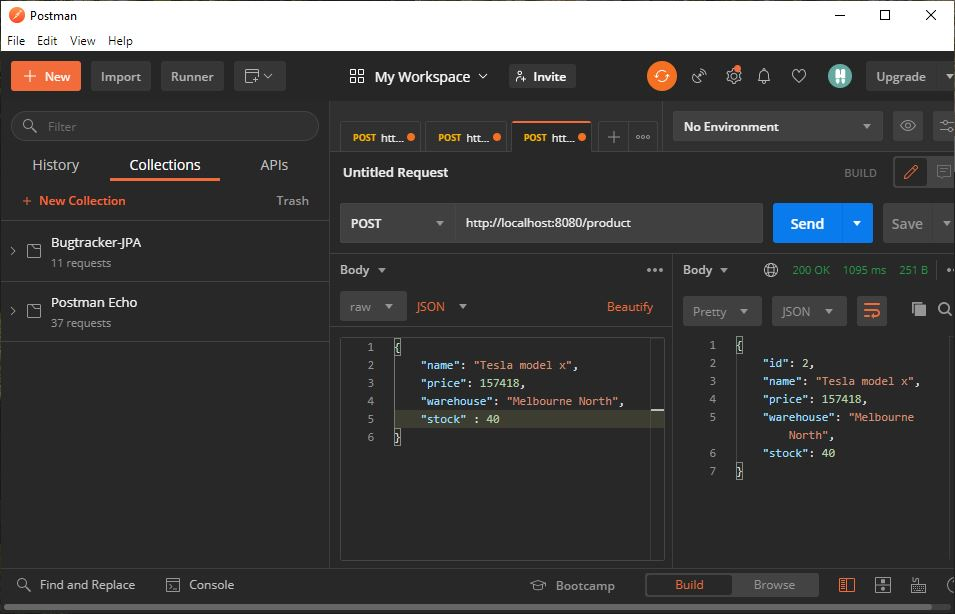
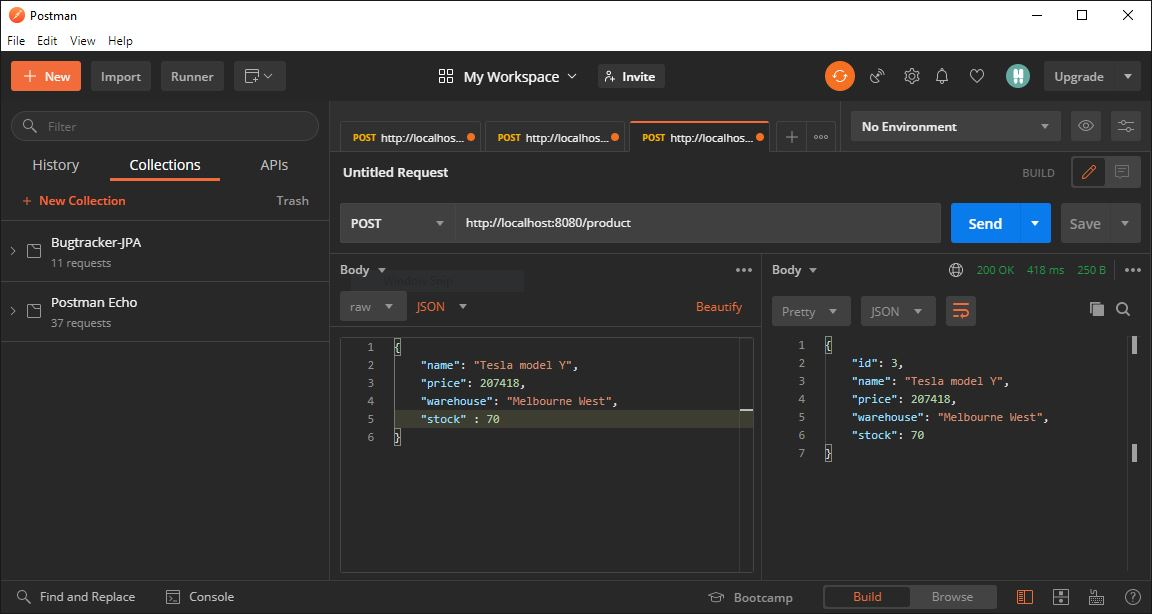
doc

diff --git a/src/test/java/com/sada/SpringCloudGCPCloud/SQLDB/SpringCloudGcpCloudSqlDbApplicationTests.java b/src/test/java/com/sada/SpringCloudGCPCloud/SQLDB/SpringCloudGcpCloudSqlDbApplicationTests.java
@@ -1,13 +1,33 @@
 package com.sada.SpringCloudGCPCloud.SQLDB;
 
+import com.sada.SpringCloudGCPCloud.SQLDB.model.Product;
+import com.sada.SpringCloudGCPCloud.SQLDB.repository.ProductRepository;
 import org.junit.jupiter.api.Test;
+import org.springframework.beans.factory.annotation.Autowired;
 import org.springframework.boot.test.context.SpringBootTest;
+
+import java.util.List;
 
 @SpringBootTest
 class SpringCloudGcpCloudSqlDbApplicationTests {
+	@Autowired
+	public ProductRepository productRepository;
+
 
 	@Test
 	void contextLoads() {
+	}
+	@Test
+	public void testProduct(){
+		List<Product> a=productRepository.findAll();
+		for(Product product : a){
+			//System.out.println(product.getId());
+			System.out.println("Tesla Model: "+ product.getName());
+			System.out.println("Tesla Price: "+ product.getPrice());
+			System.out.println("Warehouse:   "+   product.getWarehouse());
+			System.out.println("-------------------------------------");
+		}
+
 	}
 
 }

diff --git a/src/main/java/com/sada/SpringCloudGCPCloud/SQLDB/repository/ProductRepository.java b/src/main/java/com/sada/SpringCloudGCPCloud/SQLDB/repository/ProductRepository.java
@@ -1,0 +1,13 @@
+package com.sada.SpringCloudGCPCloud.SQLDB.repository;
+
+
+import com.sada.SpringCloudGCPCloud.SQLDB.model.Product;
+import org.springframework.data.jpa.repository.JpaRepository;
+import org.springframework.data.jpa.repository.Query;
+
+import java.util.List;
+
+public interface ProductRepository extends JpaRepository<Product,String> {
+@Query(value = "select * from product where stock='67'",nativeQuery = true)
+    List<Product> findByStock();
+   }

diff --git a/src/main/java/com/sada/SpringCloudGCPCloud/SQLDB/controller/ProductController.java b/src/main/java/com/sada/SpringCloudGCPCloud/SQLDB/controller/ProductController.java
@@ -1,5 +1,7 @@
-package com.sada.SpringCloudGCPCloud.SQLDB;
+package com.sada.SpringCloudGCPCloud.SQLDB.controller;
 
+import com.sada.SpringCloudGCPCloud.SQLDB.model.Product;
+import com.sada.SpringCloudGCPCloud.SQLDB.repository.ProductRepository;
 import org.springframework.web.bind.annotation.*;
 
 @RestController

diff --git a/src/main/java/com/sada/SpringCloudGCPCloud/SQLDB/model/Product.java b/src/main/java/com/sada/SpringCloudGCPCloud/SQLDB/model/Product.java
@@ -1,4 +1,4 @@
-package com.sada.SpringCloudGCPCloud.SQLDB;
+package com.sada.SpringCloudGCPCloud.SQLDB.model;
 
 
 import javax.persistence.Entity;

diff --git a/README.md b/README.md
@@ -1,2 +1,71 @@
 # SpringCloud_GCP_Cloud-SQL-DB
- SpringCloud_GCP_Cloud SQL database
+
+#Google Cloud Configuration for the project
+
+## 1. You can utlize the free Google cloud tire or you can your gcloud to get access.
+
+## 2. Once you active your account you can create new project or use existing project.
+
+## 3. you need to create SQL instance.
+   > you can use search bar or menu to find the SQL
+## 4. It might take while to configure the instance.
+
+## 5. we need to enable API access for your account.
+   > you can search the API using Platform search bar **Cloud SQL Admin API**. you have enable this API service to access the DATABASE.
+## 6. Last we need to create  server account to access the services with secure and authenticate credentials by Creating **Service Account** for SQL admin access. 
+   > IAM & Admin > service Accounts > 
+    >Create Service Account
+    > assign access permission as SQL admin
+    > create a key
+    >Json ( we need to add the path of the location to Project application.properties file)
+
+# Application configuration to access the Gcloud
+    #Project name in Gcloud
+    spring.cloud.gcp.project-id=springcloud-data-sql
+    # SQL instance connection name 
+    spring.cloud.gcp.sql.instance-connection-name=springcloud-data-sql:australia-southeast1:sada-postgresql-instance 
+    #Databae name
+    spring.cloud.gcp.sql.database-name=postgres
+    
+    spring.datasource.username=postgres
+    #password
+    spring.datasource.password=sada
+    #Json credentials to access the gloud account.
+    spring.cloud.gcp.credentials.location=file:/Users/X270/Desktop/springcloud-data-sql-95f7ceb8e5ec.json
+    spring.jpa.generate-ddl=true
+  > once you configure the all the details in application.properties file.
+## Start the application 
+    mvn spring-boot:run 
+   > Once the application running without problems.You send **Post** request by using postman.
+## Postman 
+
+## After sending the Post request you can check the Database table in by using Gcloud shell.
+   > SQL > Click on your instance > connect using cloud shell 
+
+     gcloud sql connect sada-postgresql-instance --user=postgres --quiet
+   > Enter your password
+   > To access the postgres db 
+
+      \c postgres
+   > Enter your password 
+   > To see the list of tables in DB.
+
+       \dt
+   > Check the data added to table or not
+
+    select * from product;
+# OR you can write simple test case to get the data from Gcloud DB table.
+    @Test
+    	public void testProduct(){
+    		List<Product> a=productRepository.findAll();
+    		for(Product product : a){
+    			//System.out.println(product.getId());
+    			System.out.println("Tesla Model: "+ product.getName());
+    			System.out.println("Tesla Price: "+ product.getPrice());
+    			System.out.println("Warehouse:   "+   product.getWarehouse());
+    			System.out.println("-------------------------------------");
+    		} 
+ > Done :)
+    
+
+    
